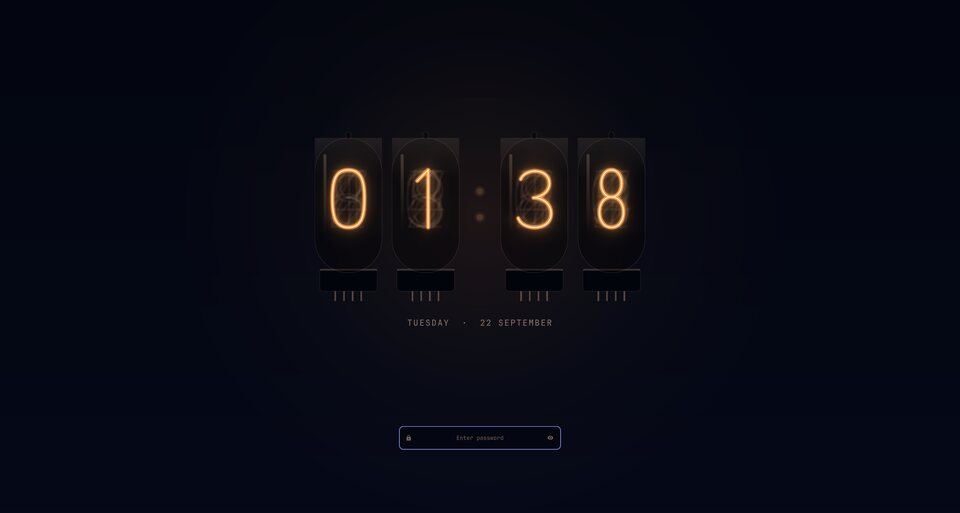
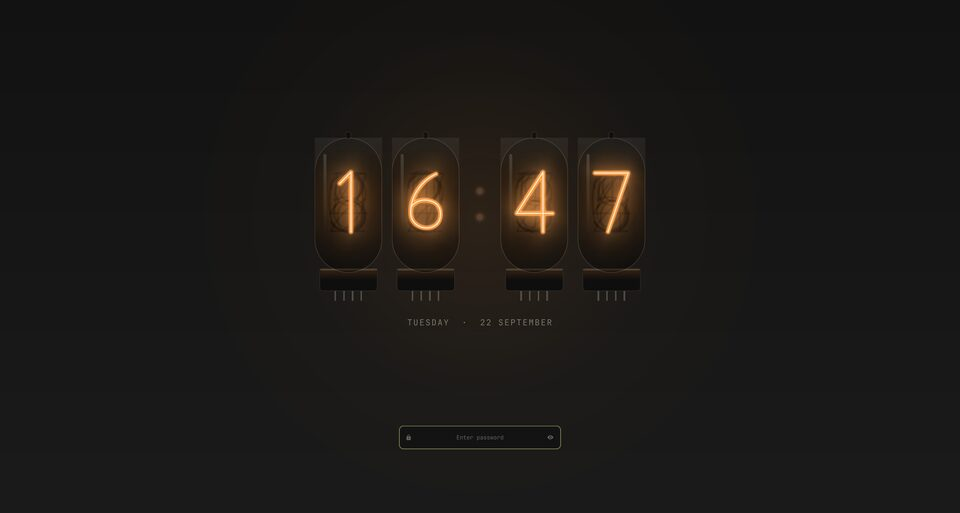
Make Nixie tubes look lit from inside
The lit digit sat as a bright shape on black glass. Each tube now has a
soft orange gas fill that fades toward the envelope, the unlit cathodes
show as dark wire silhouettes in that haze instead of grey lines, and the
halo around the lit wire is wider and brighter. Digits are centered in the
glass, the socket picks up a warm reflection of the glow, and a digit
change strikes with a short dip and recovery of the glow.

diff --git a/designs/Nixie.qml b/designs/Nixie.qml
@@ -104,8 +104,8 @@ DesignBase {
     property string digit: "0"
     readonly property real glassW: lock.u * 12.5
     readonly property real glassH: lock.u * 25
-    readonly property real k: glassH * 0.5 / 160
-    readonly property real digitY: glassH * 0.20
+    readonly property real k: glassH * 0.52 / 160
+    readonly property real digitY: (glassH - 160 * k) / 2 - lock.u * 0.6
     width: glassW
     height: glassH + lock.u * 6.4
 
@@ -129,6 +129,19 @@ DesignBase {
         height: Math.max(2, lock.u * 0.3)
         radius: height / 2
         color: lock.withAlpha(Color.foreground, 0.22)
+      }
+      // The digit's light falling on the socket.
+      Rectangle {
+        anchors.top: parent.top
+        anchors.left: parent.left
+        anchors.right: parent.right
+        anchors.margins: 2
+        height: parent.height * 0.5
+        radius: parent.radius
+        gradient: Gradient {
+          GradientStop { position: 0; color: lock.withAlpha(lock.neon, 0.16) }
+          GradientStop { position: 1; color: "transparent" }
+        }
       }
     }
     Row {
@@ -156,8 +169,31 @@ DesignBase {
       radius: width / 2
       color: Qt.rgba(0, 0, 0, 0.34)
       border.width: 1
-      border.color: lock.withAlpha(Color.foreground, 0.16)
+      border.color: lock.withAlpha(Color.foreground, 0.22)
       clip: true
+
+      // Ionised gas: a soft orange fill around the lit digit that fades out
+      // toward the glass, which is what makes a real tube look lit from
+      // inside rather than a shape drawn on black.
+      Shape {
+        id: gas
+        anchors.fill: parent
+        preferredRendererType: Shape.CurveRenderer
+        ShapePath {
+          strokeWidth: 0
+          fillGradient: RadialGradient {
+            centerX: gas.width / 2
+            centerY: tube.digitY + 80 * tube.k
+            focalX: centerX
+            focalY: centerY
+            centerRadius: gas.width * 0.95
+            GradientStop { position: 0; color: lock.withAlpha(lock.neon, 0.30) }
+            GradientStop { position: 0.45; color: lock.withAlpha(lock.neon, 0.10) }
+            GradientStop { position: 1; color: "transparent" }
+          }
+          PathSvg { path: "M 0 0 H " + gas.width + " V " + gas.height + " H 0 Z" }
+        }
+      }
 
       // The nine unlit cathodes, stacked with a hint of depth.
       Repeater {
@@ -170,33 +206,52 @@ DesignBase {
           k: tube.k
           x: (glass.width - width) / 2 + (index - 4.5) * lock.u * 0.09
           y: tube.digitY + (index - 4.5) * lock.u * 0.05
-          stroke: lock.withAlpha(Color.foreground, 0.055)
-          thickness: 6
+          stroke: Qt.rgba(0, 0, 0, 0.24)
+          thickness: 5
         }
       }
 
       // The lit cathode: a wide glow, a tight glow, the wire, a hot core.
       Item {
-        x: (glass.width - width) / 2
-        y: tube.digitY
-        width: 100 * tube.k
-        height: 160 * tube.k
-        layer.enabled: true
-        layer.effect: MultiEffect { blurEnabled: true; blur: 1.0; blurMax: 64; brightness: 0.2 }
-        opacity: 0.85
-        Wire { anchors.fill: parent; ch: tube.digit; k: tube.k; stroke: lock.neon; thickness: 9 }
+        id: lit
+        anchors.fill: parent
+
+        // Striking a new digit: the glow dips and recovers.
+        NumberAnimation {
+          id: strike
+          target: lit
+          property: "opacity"
+          from: 0.25
+          to: 1
+          duration: 260
+          easing.type: Easing.OutCubic
+        }
+        Connections {
+          target: tube
+          function onDigitChanged() { if (!lock.videoPlaying) strike.restart() }
+        }
+
+        Item {
+          x: (glass.width - width) / 2
+          y: tube.digitY
+          width: 100 * tube.k
+          height: 160 * tube.k
+          layer.enabled: true
+          layer.effect: MultiEffect { blurEnabled: true; blur: 1.0; blurMax: 96; brightness: 0.25 }
+          Wire { anchors.fill: parent; ch: tube.digit; k: tube.k; stroke: lock.neon; thickness: 12 }
+        }
+        Item {
+          x: (glass.width - width) / 2
+          y: tube.digitY
+          width: 100 * tube.k
+          height: 160 * tube.k
+          layer.enabled: true
+          layer.effect: MultiEffect { blurEnabled: true; blur: 0.6; blurMax: 20; brightness: 0.35 }
+          Wire { anchors.fill: parent; ch: tube.digit; k: tube.k; stroke: lock.neon; thickness: 9 }
+        }
+        Wire { x: (glass.width - width) / 2; y: tube.digitY; ch: tube.digit; k: tube.k; stroke: lock.neon; thickness: 7 }
+        Wire { x: (glass.width - width) / 2; y: tube.digitY; ch: tube.digit; k: tube.k; stroke: lock.core; thickness: 3 }
       }
-      Item {
-        x: (glass.width - width) / 2
-        y: tube.digitY
-        width: 100 * tube.k
-        height: 160 * tube.k
-        layer.enabled: true
-        layer.effect: MultiEffect { blurEnabled: true; blur: 0.5; blurMax: 16; brightness: 0.3 }
-        Wire { anchors.fill: parent; ch: tube.digit; k: tube.k; stroke: lock.neon; thickness: 8 }
-      }
-      Wire { x: (glass.width - width) / 2; y: tube.digitY; ch: tube.digit; k: tube.k; stroke: lock.neon; thickness: 7 }
-      Wire { x: (glass.width - width) / 2; y: tube.digitY; ch: tube.digit; k: tube.k; stroke: lock.core; thickness: 3 }
 
       // Glass: a sheen over the dome and a streak down the left.
       Rectangle {
